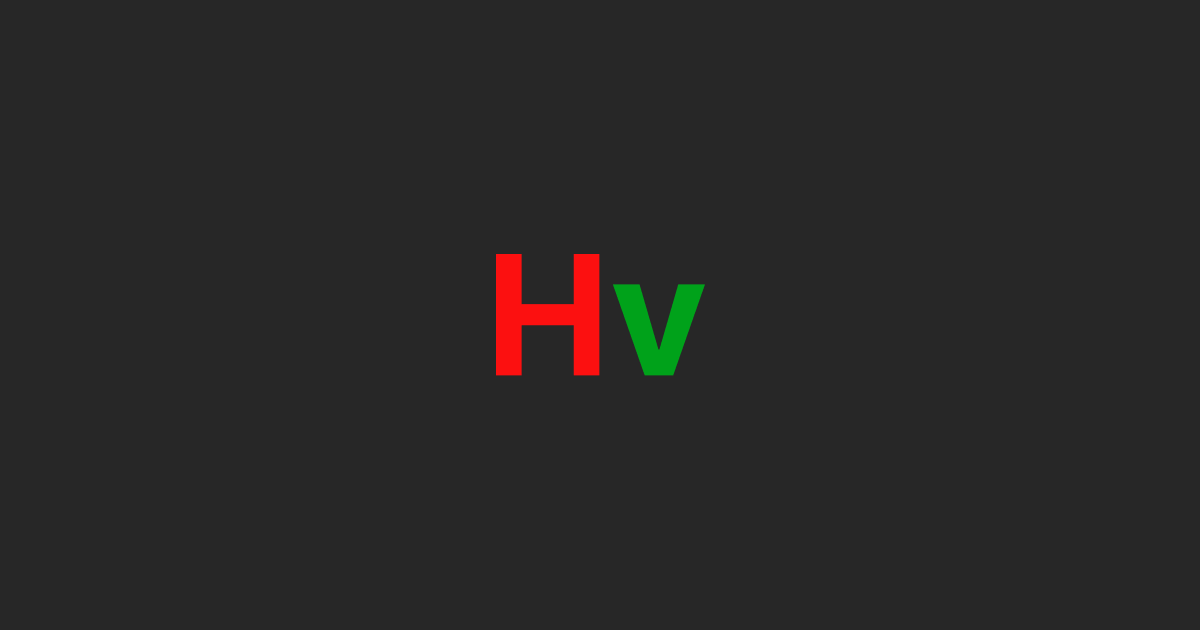
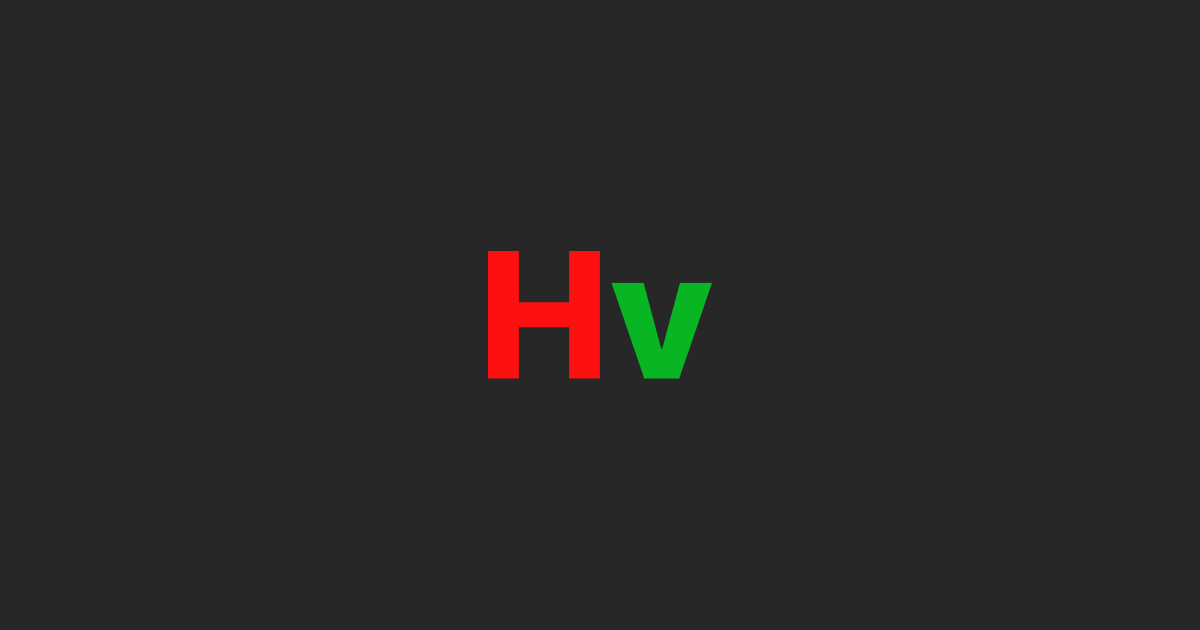
로고 스타일 수정

Changed region(s): [[0.4008, 0.3921, 0.4933, 0.6032], [0.5242, 0.4524, 0.6167, 0.6032]]

diff --git a/src/components/Home/HeaderBar.tsx b/src/components/Home/HeaderBar.tsx
@@ -1,0 +1,255 @@
+import styled from 'styled-components'
+import { ReactComponent as SvgHome } from '../../icons/home.svg';
+import { ReactComponent as SvgFullScreen } from '../../icons/fullScreen.svg';
+import { ReactComponent as SvgRectangle } from '../../icons/rectangle.svg';
+import { ReactComponent as SvgRectangleFill } from '../../icons/rectangle_fill.svg';
+import { ReactComponent as SvgDesktop } from '../../icons/desktop.svg';
+import { ReactComponent as SvgPhone } from '../../icons/phone.svg';
+import { ReactComponent as SvgTrash } from '../../icons/trash.svg';
+import { useEffect, useState } from 'react';
+import { Link, useNavigate } from 'react-router-dom';
+import { IHvData } from '../../types';
+import { API } from 'aws-amplify';
+import { deleteHvData, updateHvData } from "../../graphql/mutations";
+import { getCurrentUser } from '../../firebase/auth';
+
+const HvFunctionBar = ({ hvData }: { hvData: IHvData }) => {
+  const [isFull, setIsFull] = useState(false);
+  const [device, setDevice] = useState("phone"); // phone / desktop
+  const [zoomLock, setZoomLock] = useState(false);
+  const [hvTitle, setHvTitle] = useState(hvData.title);
+  const rectangleIcon = { onClick: () => { setZoomLock(!zoomLock) }, width: 22, height: 22, fill: zoomLock ? "white" : "rgb(200, 200, 200)", style: { padding: 6, cursor: "pointer" } };
+  const deviceIcon = { width: 24, height: 24, style: { padding: 8, marginLeft: 2, cursor: "pointer" } };
+  let zoom = 1;
+  const navigate = useNavigate();
+
+  const zoomEvent = (e: WheelEvent | Event) => {
+    const zommInput = document.getElementById("zoom") as HTMLInputElement;
+    if (document.getElementById("zoomContainer")?.className.split(" ").at(-1) === "false") {
+      const viewBox = document.getElementById("viewBox") as HTMLInputElement;
+      const target = e.target as HTMLElement | HTMLInputElement;
+      if (target.id && e instanceof WheelEvent) {
+        if (e.deltaY > 0) { // 스크롤 다운
+          if (zoom > 0.05) {
+            zoom -= 0.05;
+          }
+        } else { // 스크롤 업
+          if (zoom < 3) {
+            zoom += 0.05;
+          }
+        }
+      } else {
+        if (target instanceof HTMLInputElement) {
+          zoom = Number(target.value) / 100;
+        }
+      }
+      viewBox.style.transform = `scale(${zoom}, ${zoom})`;
+    }
+    zommInput.value = String(Math.floor(zoom * 100));
+  }
+
+  useEffect(() => {
+    const viewBg = document.getElementById("viewBackground") as HTMLElement;
+    const viewBox = document.getElementById("viewBox");
+    const zommInput = document.getElementById("zoom") as HTMLInputElement | null;
+    const viewContainerElem = document.getElementById("viewContainer");
+
+    if (viewBg && viewBox && zommInput && viewContainerElem) {
+      if (device === "phone") {
+        zoom = viewBg.offsetHeight * 0.9 / 720;
+      } else if (device === "desktop") {
+        zoom = viewBg.offsetWidth * 0.9 / 1395;
+      }
+      viewBox.style.transform = `scale(${zoom}, ${zoom})`;
+      zommInput.value = String(Math.floor(zoom * 100));
+      zommInput.addEventListener("change", zoomEvent);
+      viewContainerElem.addEventListener('wheel', zoomEvent);
+    } else {
+      const zoomSetter = setInterval(() => {
+        const viewBg = document.getElementById("viewBackground") as HTMLElement;
+        const viewBox = document.getElementById("viewBox");
+        const zommInput = document.getElementById("zoom") as HTMLInputElement | null;
+        const viewContainerElem = document.getElementById("viewContainer");
+        if (viewBg && viewBox && zommInput && viewContainerElem) {
+          if (device === "phone") {
+            zoom = viewBg.offsetHeight * 0.9 / 720;
+          } else if (device === "desktop") {
+            zoom = viewBg.offsetWidth * 0.9 / 1395;
+          }
+          viewBox.style.transform = `scale(${zoom}, ${zoom})`;
+          zommInput.value = String(Math.floor(zoom * 100));
+          zommInput.addEventListener("change", zoomEvent);
+          viewContainerElem.addEventListener('wheel', zoomEvent);
+          clearInterval(zoomSetter);
+        }
+      }, 100)
+    }
+  }, [])
+
+  const changeDevice = (type: string) => {
+    const viewBg = document.getElementById("viewBackground") as HTMLElement;
+    const zommInput = document.getElementById("zoom") as HTMLInputElement;
+    const viewBox = document.getElementById("viewBox") as HTMLElement;
+    const viewContainerElem = document.getElementById("viewContainer") as HTMLElement;
+    if (type === "desktop") {
+      setDevice("desktop");
+      viewBox.style.width = "1395px";
+      viewBox.style.height = "992px";
+      zoom = viewBg.offsetWidth * 0.9 / 1395;
+      viewBox.style.transform = `scale(${zoom}, ${zoom})`;
+    } else if (type === "phone") {
+      setDevice("phone");
+      viewBox.style.width = "360px";
+      viewBox.style.height = "720px";
+      zoom = viewBg.offsetHeight * 0.9 / 720;
+      viewBox.style.transform = `scale(${zoom}, ${zoom})`;
+    }
+    zommInput.value = String(Math.floor(zoom * 100));
+    zommInput.removeEventListener("change", zoomEvent);
+    viewContainerElem.removeEventListener('wheel', zoomEvent);
+    viewContainerElem.addEventListener('wheel', zoomEvent);
+    zommInput.addEventListener("change", zoomEvent);
+  }
+
+  const changeHvTitle = () => {
+    const user = getCurrentUser();
+    if (user?.uid === hvData.author) {
+      const result = API.graphql({
+        query: updateHvData,
+        variables: {
+          input: {
+            id: hvData.id,
+            title: hvTitle
+          }
+        }
+      }) as any;
+      result.then(({ data }: { data: { updateHvData: IHvData } }) => {
+        if (data && data.updateHvData) {
+          console.log("HV 업데이트 성공");
+        } else {
+          console.error("HV 업데이트 실패");
+        }
+      });
+    } else {
+      alert("로그인 되어있지 않습니다.");
+    }
+  }
+
+  const deleteHv = () => {
+    if (window.confirm("프로젝트를 제거 하겠습니까?\n한번 제거한 프로젝트는 되돌리지 못합니다.")) {
+      const user = getCurrentUser();
+      if (user?.uid === hvData.author) {
+        const result = API.graphql({
+          query: deleteHvData,
+          variables: {
+            input: {
+              id: hvData.id
+            }
+          }
+        }) as any;
+        result.then(({ data }: { data: { deleteHvData: IHvData } }) => {
+          if (data && data.deleteHvData) {
+            console.log("HV 삭제 완료");
+            navigate("/");
+          } else {
+            console.error("HV 삭제 실패");
+          }
+        });
+      } else {
+        alert("로그인 되어있지 않습니다.");
+      }
+    }
+  }
+
+  return (
+    <Container>
+      <div>
+        <Link to="/">
+          <SvgHome width={22} height={22} fill={"rgb(191, 191, 191)"} style={{ padding: 12, cursor: "pointer" }} />
+        </Link>
+        <HvNameInput
+          type={"text"}
+          value={String(hvTitle)}
+          onBlur={() => { changeHvTitle() }}
+          onKeyDown={(e) => { if (e.key === "Enter") changeHvTitle() }}
+          onChange={(e) => { setHvTitle(e.target.value) }}
+        />
+      </div>
+      <ZoomContainer id="zoomContainer" className={String(zoomLock)}>
+        <span>
+          <SvgDesktop fill={device === "desktop" ? "white" : "rgb(200, 200, 200)"} {...deviceIcon} onClick={() => { changeDevice("desktop") }} />
+          <SvgPhone fill={device === "phone" ? "white" : "rgb(200, 200, 200)"} {...deviceIcon} onClick={() => { changeDevice("phone") }} />
+        </span>
+        {
+          zoomLock
+            ? <SvgRectangleFill {...rectangleIcon} />
+            : <SvgRectangle {...rectangleIcon} />
+        }
+        <ZoomInput type={"text"} id="zoom" />
+      </ZoomContainer>
+      <Settings>
+        <SvgTrash width={20} height={20} fill={"rgb(238, 238, 238)"} style={{ padding: 12, cursor: "pointer" }} onClick={deleteHv} />
+        <SvgFullScreen width={20} height={20} fill={"rgb(238, 238, 238)"} style={{ padding: 12, backgroundColor: isFull ? "#424242" : "initial", cursor: "pointer" }} onClick={() => {
+          if (isFull) document.exitFullscreen();
+          else document.body.requestFullscreen();
+          setIsFull(!isFull);
+        }} />
+      </Settings>
+    </Container >
+  )
+}
+
+const Container = styled.div`
+  width:100vw;
+  height:46px;
+  background-color: #272727;
+  display:flex;
+  align-items: center;
+  justify-content: space-between;
+  div{
+    display:flex;
+    align-items: center;
+  }
+  @media screen and (max-width: 750px) {
+    justify-content: center;
+  }
+`
+const ZoomContainer = styled.div`
+  display:flex;
+  align-items: center;
+  justify-content: center;
+  position: fixed;
+  left: calc(50vw - (191.91px / 2));
+  padding-left: 4px;
+  span{
+    margin-right: 18px;
+  }
+  *{
+    @media screen and (max-width: 750px) {
+      display:none;
+    }
+  }
+`
+const ZoomInput = styled.input`
+  color:white;
+  width:40px;
+  padding: 8px;
+  padding-left: 4px;
+  font-size: 14px;
+`
+const HvNameInput = styled.input`
+  color:white;
+  font-size: 16px;
+  margin-left: 8px;
+  width:200px;
+  padding: 4px;
+`
+const Settings = styled.div`
+  *{
+    @media screen and (max-width: 750px) {
+      display:none;
+    }
+  }
+`
+
+export default HvFunctionBar;

diff --git a/public/index.html b/public/index.html
@@ -3,10 +3,10 @@
 
 <head>
   <meta charset="utf-8" />
-  <link rel="icon" href="%PUBLIC_URL%/hvLogo192.png" />
+  <link rel="icon" href="%PUBLIC_URL%/hvIcon.svg" />
   <meta name="viewport" content="width=device-width, initial-scale=1" />
   <meta name="theme-color" content="#000000" />
-  <link rel="apple-touch-icon" href="%PUBLIC_URL%/hvLogo192.png" />
+  <link rel="apple-touch-icon" href="%PUBLIC_URL%/hvIcon.svg" />
   <link rel="manifest" href="%PUBLIC_URL%/manifest.json" />
   <title>HTML Visualize</title>
 
